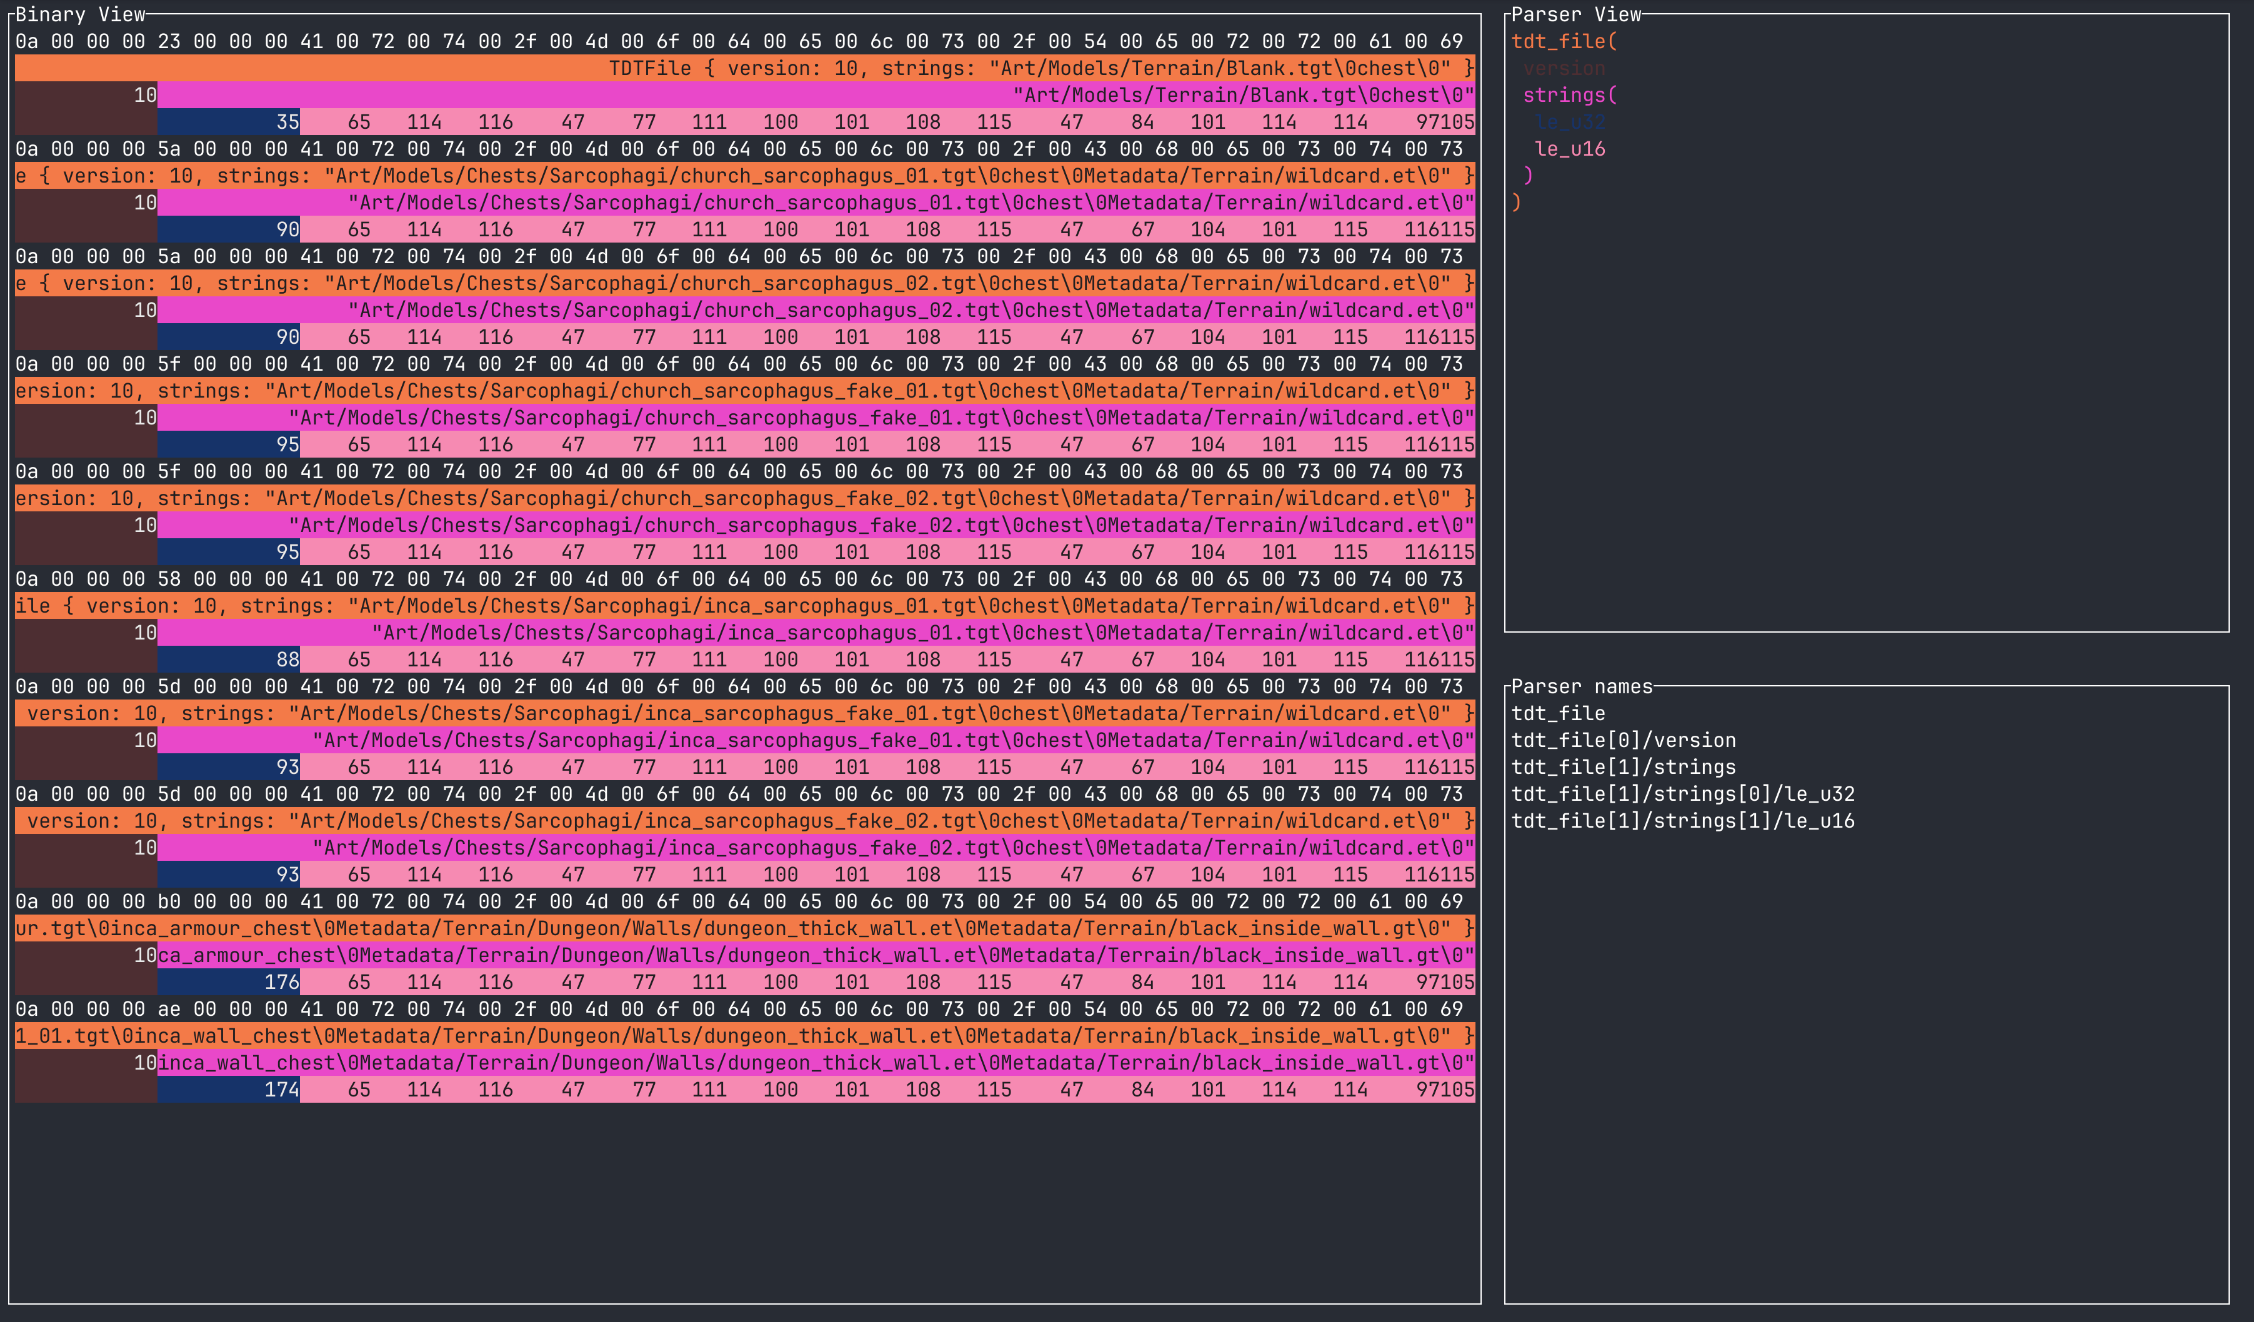
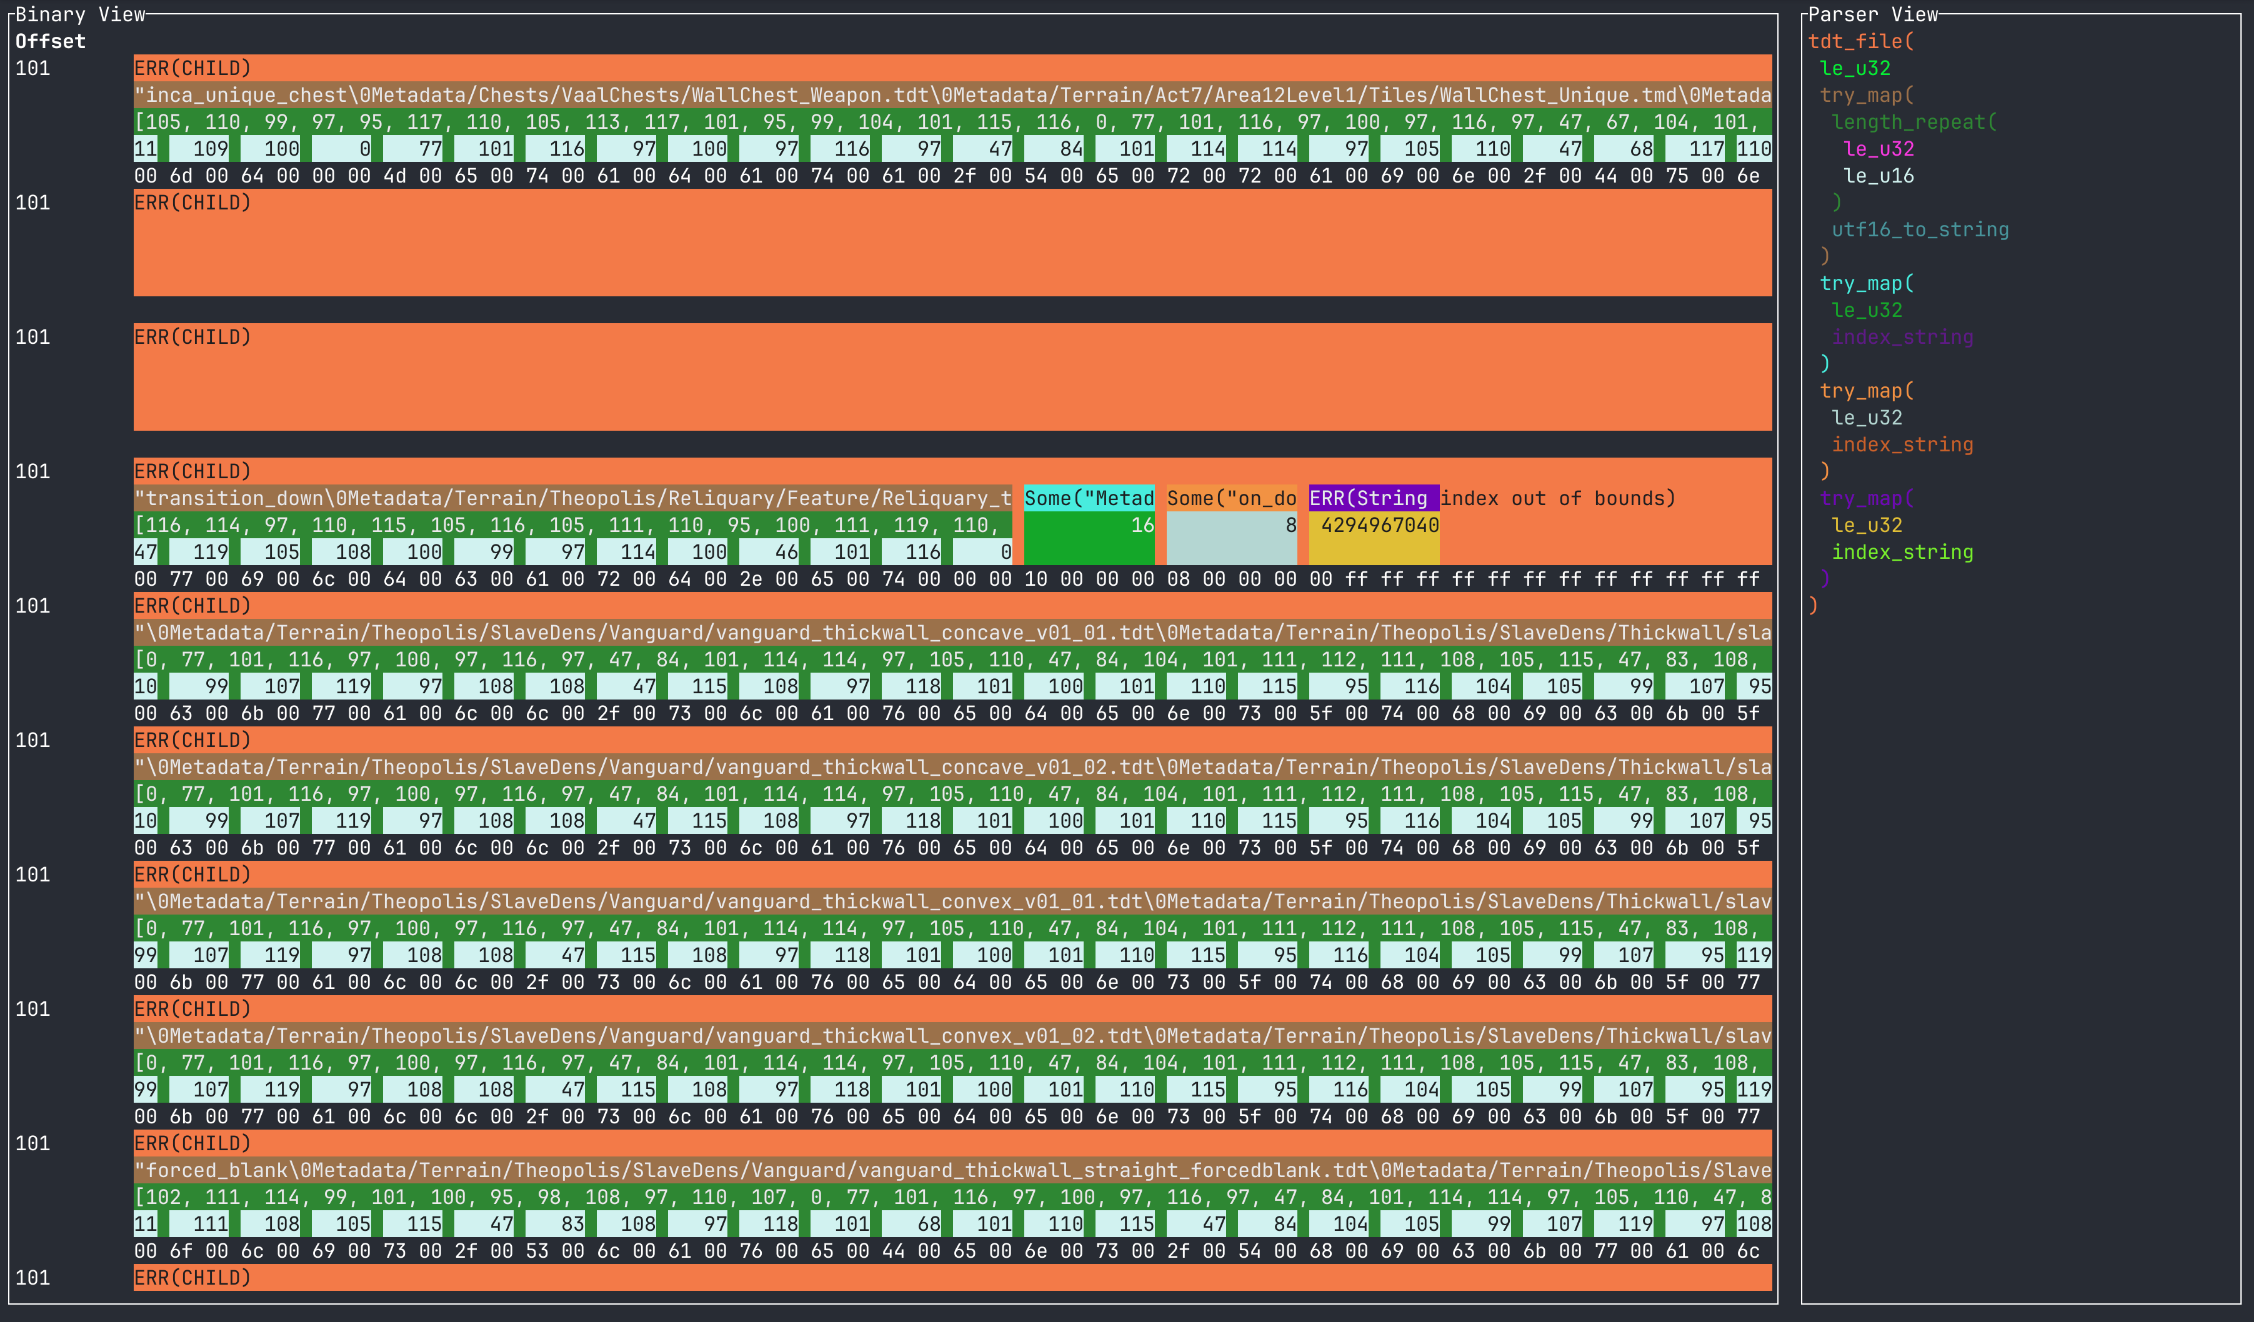
Add 'error-only' mode. Add horizontal alignment/scrolling by parser spec.

diff --git a/src/main.rs b/src/main.rs
@@ -44,15 +44,15 @@ fn main() -> Result<()> {
 
     let logger_state = TuiWidgetState::new();
 
-    let (parser, files) = load_batch(10);
-    // let files = files
-    //     .into_iter()
-    //     .filter(|(_, _, a)| !a.result.is_ok())
-    //     .collect::<Vec<_>>();
+    let (parser, files) = load_batch(10000);
     let parser = parser.spec();
     let colors = generate_colours(&parser.identifiers());
+    let identifiers = parser.identifiers();
 
     let mut scroll_y = 0;
+    let mut errors_only = true;
+
+    let mut scroll_to_identifier = 0;
 
     let mut annotated_files = files
         .iter()
@@ -62,9 +62,21 @@ fn main() -> Result<()> {
     ratatui::run(|terminal| {
         loop {
             {
-                let annotated_files = &annotated_files[scroll_y..];
+                let annotated_files = annotated_files
+                    .iter()
+                    .filter(|f| !errors_only || !f.annotation.result.is_ok())
+                    .skip(scroll_y)
+                    .collect::<Vec<_>>();
+
                 terminal.draw(|frame| {
-                    render(frame, annotated_files, &parser, &colors, &logger_state)
+                    render(
+                        frame,
+                        &annotated_files,
+                        &parser,
+                        &colors,
+                        &logger_state,
+                        &identifiers[scroll_to_identifier],
+                    )
                 })?;
             }
 
@@ -113,6 +125,39 @@ fn main() -> Result<()> {
                     scroll_y = scroll_y.saturating_add_signed(dir);
                     scroll_y = scroll_y.min(annotated_files.len() - 1);
                 }
+                // Toggle show errors only
+                Event::Key(KeyEvent {
+                    code: KeyCode::Char('e'),
+                    modifiers: KeyModifiers::NONE,
+                    ..
+                }) => {
+                    errors_only ^= true;
+                    scroll_y = 0;
+                }
+                // Align with parser
+                Event::Key(KeyEvent {
+                    code: dir @ (KeyCode::Char('a') | KeyCode::Char('d')),
+                    modifiers: KeyModifiers::NONE,
+                    ..
+                }) => {
+                    let dir = match dir {
+                        KeyCode::Char('a') => -1,
+                        KeyCode::Char('d') => 1,
+                        _ => unreachable!(),
+                    };
+                    scroll_to_identifier = (scroll_to_identifier as isize + dir)
+                        .clamp(0, identifiers.len() as isize - 1)
+                        as usize;
+                    let parser_id = &identifiers[scroll_to_identifier];
+
+                    for file in &mut annotated_files {
+                        if let Some(anno) = file.annotation.find_annotation(parser_id) {
+                            let (start, _) = anno.result.span();
+                            file.scroll_x = start as isize;
+                        }
+                    }
+                }
+
                 _ => (),
             }
         }
@@ -122,37 +167,38 @@ fn main() -> Result<()> {
 /// Render the UI with various blocks.
 fn render(
     frame: &mut Frame,
-    files: &[AnnotatedFile<'_>],
+    files: &[&AnnotatedFile<'_>],
     parser: &ParserSpec,
     colors: &HashMap<String, Color>,
     tui_state: &TuiWidgetState,
+    highlight: &str,
 ) {
     let horizontal =
         Layout::horizontal([Constraint::Fill(1), Constraint::Percentage(20)]).spacing(1);
     let [binary_area, parser_area] = frame.area().layout(&horizontal);
 
-    let vertical =
-        Layout::vertical([Constraint::Percentage(33), Constraint::Percentage(66)]).spacing(1);
-    let [parser_area, logger] = parser_area.layout(&vertical);
-
     render_binary_view(frame, binary_area, files, colors);
-    render_parser_view(frame, parser_area, parser, colors);
 
-    let logger_widget = TuiLoggerWidget::default()
-        .block(Block::bordered().title("Logs"))
-        .output_timestamp(None)
-        .output_file(false)
-        .output_level(None)
-        .output_target(false)
-        .output_line(false)
-        .state(tui_state);
-    frame.render_widget(logger_widget, logger);
+    // let vertical =
+    //     Layout::vertical([Constraint::Percentage(33), Constraint::Percentage(66)]).spacing(1);
+    // let [parser_area, logger] = parser_area.layout(&vertical);
+    render_parser_view(frame, parser_area, parser, colors, highlight);
+
+    // let logger_widget = TuiLoggerWidget::default()
+    //     .block(Block::bordered().title("Logs"))
+    //     .output_timestamp(None)
+    //     .output_file(false)
+    //     .output_level(None)
+    //     .output_target(false)
+    //     .output_line(false)
+    //     .state(tui_state);
+    // frame.render_widget(logger_widget, logger);
 }
 
 fn render_binary_view(
     frame: &mut Frame,
     area: Rect,
-    files: &[AnnotatedFile<'_>],
+    files: &[&AnnotatedFile<'_>],
     _colors: &HashMap<String, Color>,
 ) {
     // Border
@@ -171,7 +217,7 @@ fn render_binary_view(
 
     for file in files {
         // Render main bytes / annotation view
-        frame.render_widget(file, main_area);
+        frame.render_widget(*file, main_area);
 
         // Update the remaining area available
         let moved = main_area.height.min(file.height() as u16);
@@ -194,6 +240,7 @@ fn render_parser_view(
     area: Rect,
     parser: &ParserSpec,
     colors: &HashMap<String, Color>,
+    highlight: &str,
 ) {
     // let vertical =
     //     Layout::vertical([Constraint::Percentage(50), Constraint::Percentage(50)]).spacing(1);
@@ -201,7 +248,7 @@ fn render_parser_view(
 
     // Parser view
     let text = parser
-        .to_paragraph_styled(colors)
+        .to_paragraph_styled(colors, Some(highlight))
         .block(Block::bordered().title("Parser View"));
 
     frame.render_widget(text, area);

diff --git a/src/data_section.rs b/src/data_section.rs
@@ -78,7 +78,15 @@ impl<'a> AnnotatedFile<'a> {
         };
 
         // Set background colour
-        let color = self.colors[&self.annotation.parser_id];
+        let color = *self
+            .colors
+            .get(&self.annotation.parser_id)
+            .unwrap_or_else(|| {
+                panic!(
+                    "No colour for parser {:?}: {:#?}",
+                    self.annotation.parser_id, self.colors
+                )
+            });
         let Color::Rgb(r, g, b) = color else {
             unreachable!()
         };
